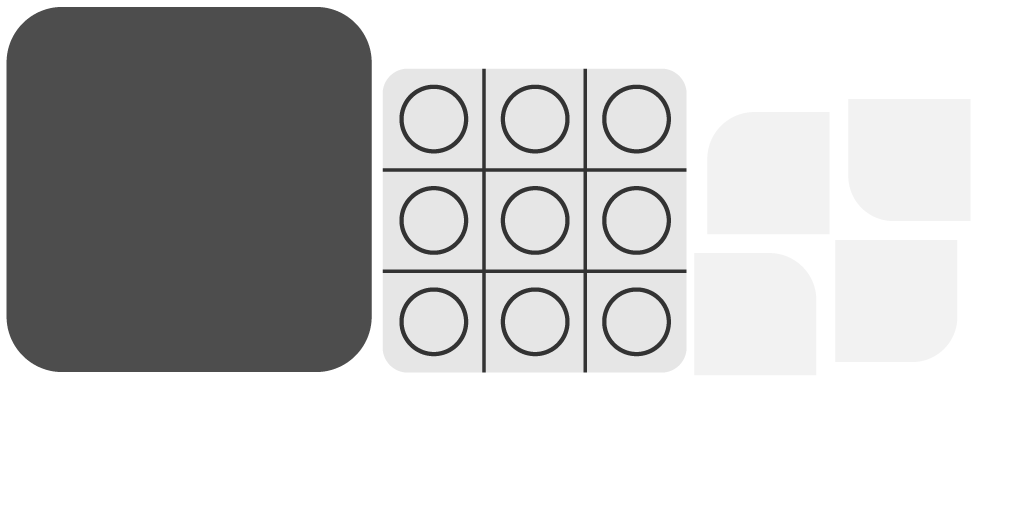
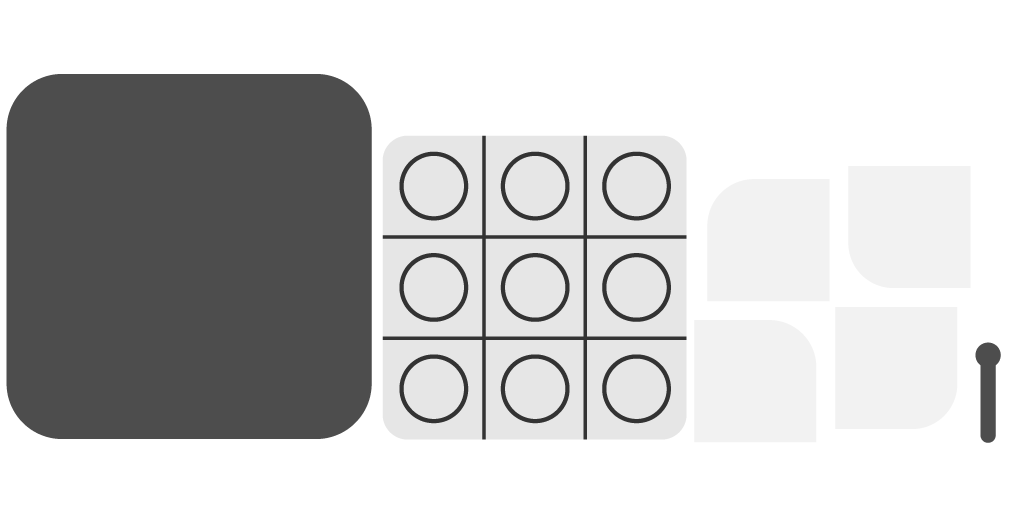
little improves

Changed region(s): [[0.0, 0.0, 0.6875, 0.875], [0.9375, 0.6562, 1.0, 0.875]]

diff --git a/core/src/com/rodion/turniket/basics/ImageEntity.java b/core/src/com/rodion/turniket/basics/ImageEntity.java
@@ -1,15 +1,13 @@
 package com.rodion.turniket.basics;
 
 import com.badlogic.gdx.assets.AssetManager;
-import com.badlogic.gdx.graphics.g2d.Batch;
 import com.badlogic.gdx.graphics.g2d.TextureAtlas;
 import com.badlogic.gdx.scenes.scene2d.ui.Image;
 import com.badlogic.gdx.scenes.scene2d.utils.TextureRegionDrawable;
-import com.rodion.turniket.basics.Constants;
+import com.rodion.turniket.utilities.ScreenScale;
 
 public class ImageEntity extends Image {
-    protected TextureRegionDrawable texture50, texture75, texture100, texture150, texture200,
-            texture300;
+    protected TextureRegionDrawable textures[];
     protected String assetPath;
     protected String assetName;
     protected AssetManager assetManager;
@@ -19,79 +17,23 @@ public class ImageEntity extends Image {
 
     public void prepareAssets() {
         setAssetAddress();
-        System.out.println(assetPath + "/0.5x/pack.atlas");
-        TextureAtlas atlas = assetManager.get(assetPath + "/0.5x/pack.atlas",
+        textures = new TextureRegionDrawable[FactorScale.getN()];
+        TextureAtlas atlas;
+        for (FactorScale factorScale: FactorScale.values()){
+            atlas = assetManager.get(assetPath + "/"+factorScale.value+"x/pack.atlas",
                 TextureAtlas.class);
-        texture50 = new TextureRegionDrawable(atlas.findRegion(assetName));
-        atlas = assetManager.get(assetPath + "/0.75x/pack.atlas", TextureAtlas.class);
-        texture75 = new TextureRegionDrawable(atlas.findRegion(assetName));
-        atlas = assetManager.get(assetPath + "/1x/pack.atlas", TextureAtlas.class);
-        texture100 = new TextureRegionDrawable(atlas.findRegion(assetName));
-        atlas = assetManager.get(assetPath + "/1.5x/pack.atlas", TextureAtlas.class);
-        texture150 = new TextureRegionDrawable(atlas.findRegion(assetName));
-        atlas = assetManager.get(assetPath + "/2x/pack.atlas", TextureAtlas.class);
-        texture200 = new TextureRegionDrawable(atlas.findRegion(assetName));
-        atlas = assetManager.get(assetPath + "/3x/pack.atlas", TextureAtlas.class);
-        texture300 = new TextureRegionDrawable(atlas.findRegion(assetName));
+            textures[factorScale.index ] = new TextureRegionDrawable(atlas.findRegion(assetName));
+        }
     }
 
     public void setAssetAddress() {
 
     }
 
-
     public void resize(int width, int height) {
+        setDrawable(textures[ScreenScale.getFac().index]);
         setSize(getImageWidth(),getImageHeight());
-        if (width <= Constants.WIDTH50x || height <= Constants.HEIGHT50x) {
-            resize50();
-            return;
-        }
-        if (width <= Constants.WIDTH75x || height <= Constants.HEIGHT75x) {
-            resize75();
-            return;
-        }
-        if (width <= Constants.WIDTH1x || height <= Constants.HEIGHT1x) {
-            resize100();
-            return;
-        }
-        if (width <= Constants.WIDTH150x || height <= Constants.HEIGHT150x) {
-            resize150();
-            return;
-        }
-        if (width <= Constants.WIDTH2x || height <= Constants.HEIGHT2x) {
-            resize200();
-            return;
-        }
-        if (width <= Constants.WIDTH3x || height <= Constants.HEIGHT3x) {
-            resize300();
-            return;
-        }
     }
-
-    public void resize50() {
-        setDrawable(texture50);
-    }
-
-    public void resize75() {
-        setDrawable(texture75);
-    }
-
-    public void resize100() {
-        setDrawable(texture100);
-    }
-
-    public void resize150() {
-        setDrawable(texture150);
-    }
-
-    public void resize200() {
-        setDrawable(texture200);
-    }
-
-    public void resize300() {
-        setDrawable(texture300);
-    }
-
 
     public AssetManager getAssetManager() {
         return assetManager;

diff --git a/core/src/com/rodion/turniket/screens/game/layouts/BoardLayout.java b/core/src/com/rodion/turniket/screens/game/layouts/BoardLayout.java
@@ -1,10 +1,15 @@
 package com.rodion.turniket.screens.game.layouts;
 
+import com.badlogic.gdx.graphics.Color;
+import com.badlogic.gdx.graphics.g2d.Batch;
 import com.badlogic.gdx.scenes.scene2d.ui.Stack;
 import com.badlogic.gdx.scenes.scene2d.ui.Table;
+import com.badlogic.gdx.utils.Align;
 import com.rodion.turniket.basics.BasicStage;
 import com.rodion.turniket.basics.ImageEntity;
 import com.rodion.turniket.basics.Layout;
+import com.rodion.turniket.kernel.Token;
+import com.rodion.turniket.screens.game.entities.TokenEntity;
 import com.rodion.turniket.utilities.AssetManagerMaster;
 
 public class BoardLayout extends Layout {
@@ -14,12 +19,15 @@ public class BoardLayout extends Layout {
     private ImageEntity ru;
     private ImageEntity rb;
     private ImageEntity burner;
+    private TokenEntity token;
+
     public BoardLayout(BasicStage basicStage) {
         super(basicStage);
         Stack stack = new Stack();
         Table table = new Table();
         Table table2 = new Table();
-        Table table3 = new Table();
+        token = new TokenEntity();
+        token.setColor(Color.MAGENTA);
 
         backboard = new ImageEntity() {
             @Override
@@ -30,7 +38,9 @@ public class BoardLayout extends Layout {
                 assetName = "back-board";
             }
         };
+
         backboard.prepareAssets();
+
         lu = new ImageEntity() {
             @Override
             public void setAssetAddress() {
@@ -41,6 +51,8 @@ public class BoardLayout extends Layout {
             }
         };
         lu.prepareAssets();
+        lu.setColor(Color.CYAN);
+
         lb = new ImageEntity() {
             @Override
             public void setAssetAddress() {
@@ -51,6 +63,8 @@ public class BoardLayout extends Layout {
             }
         };
         lb.prepareAssets();
+        lb.setColor(Color.GREEN);
+
         ru = new ImageEntity() {
             @Override
             public void setAssetAddress() {
@@ -61,6 +75,8 @@ public class BoardLayout extends Layout {
             }
         };
         ru.prepareAssets();
+        ru.setColor(Color.PURPLE);
+
         rb = new ImageEntity() {
             @Override
             public void setAssetAddress() {
@@ -71,6 +87,8 @@ public class BoardLayout extends Layout {
             }
         };
         rb.prepareAssets();
+        rb.setColor(Color.ORANGE);
+
         burner = new ImageEntity() {
             @Override
             public void setAssetAddress() {
@@ -89,18 +107,29 @@ public class BoardLayout extends Layout {
         stack.add(table);
         table2.add(burner);
         stack.add(table2);
-
+        token.setPosition(100, 100);
         add(stack);
+
+    }
+
+    @Override
+    public void draw(Batch batch, float parentAlpha) {
+        super.draw(batch, parentAlpha);
+//        token.setPosition(100,100);
+
+        token.draw(batch, parentAlpha);
     }
 
     @Override
     public void resize(int width, int height) {
         super.resize(width, height);
+        TokenEntity.boardldpos.setPosition((int) (0.5 * width), (int) (0.5 * height));
         backboard.resize(width, height);
         lu.resize(width, height);
         lb.resize(width, height);
         ru.resize(width, height);
         rb.resize(width, height);
         burner.resize(width, height);
+        token.resize(width, height);
     }
 }

diff --git a/core/src/com/rodion/turniket/utilities/ScreenScale.java b/core/src/com/rodion/turniket/utilities/ScreenScale.java
@@ -1,0 +1,32 @@
+package com.rodion.turniket.utilities;
+
+import com.rodion.turniket.basics.FactorScale;
+import com.rodion.turniket.basics.ScreenSize;
+
+public class ScreenScale {
+    private static FactorScale factorScale;
+    public static void resize(int width, int height){
+        float widthRadio = ((float)(width)) / ((float)(ScreenSize.WIDTH));
+        float heightRadio = ((float)(height)) / ((float)(ScreenSize.HEIGHT));
+        float ratio = Math.min(widthRadio, heightRadio);
+        if (ratio >= FactorScale.UltraHuge.scale) {
+            factorScale = FactorScale.UltraHuge;
+            return;
+        }
+        if (ratio <= FactorScale.UltraSmall.scale){
+            factorScale = FactorScale.UltraSmall;
+            return;
+        }
+
+        for (FactorScale enumFactorScale : FactorScale.values()){
+            if (enumFactorScale.getScale() > ratio){
+                factorScale = FactorScale.get(enumFactorScale.index - 1);
+                return;
+            }
+        }
+    }
+
+    public static FactorScale getFac() {
+        return factorScale;
+    }
+}

diff --git a/core/src/com/rodion/turniket/basics/FactorScale.java b/core/src/com/rodion/turniket/basics/FactorScale.java
@@ -1,0 +1,43 @@
+package com.rodion.turniket.basics;
+
+public enum FactorScale {
+    UltraSmall(0.5f,"0.5",0),Small(0.75f, "0.75",1),
+    Normal(1,"1",2), Big(1.5f,"1.5",3),
+    Huge(2,"2",4), UltraHuge(3,"3",5);
+    public final float scale;
+    public final String value;
+    public final int index;
+
+    FactorScale(float scale, String value, int index){
+        this.scale = scale;
+        this.value = value;
+        this.index = index;
+    }
+
+    public float getScale() {
+        return scale;
+    }
+
+    public static FactorScale get(int index) {
+        switch (index){
+            case 0:
+                return UltraSmall;
+            case 1:
+                return Small;
+            case 2:
+                return Normal;
+            case 3:
+                return Big;
+            case 4:
+                return Huge;
+            case 5:
+                return UltraHuge;
+        }
+        return null;
+    }
+
+    public static int getN() {
+        return UltraHuge.index + 1;
+    }
+
+}

diff --git a/core/src/com/rodion/turniket/screens/game/entities/TokenEntity.java b/core/src/com/rodion/turniket/screens/game/entities/TokenEntity.java
@@ -1,0 +1,31 @@
+package com.rodion.turniket.screens.game.entities;
+
+import com.rodion.turniket.basics.ImageEntity;
+import com.rodion.turniket.kernel.Node;
+import com.rodion.turniket.kernel.Token;
+import com.rodion.turniket.utilities.AssetManagerMaster;
+
+public class TokenEntity extends ImageEntity {
+    public static Node boardldpos = new Node();
+    public static float bordersize;
+    public static float pad;
+
+    private Token token;
+    public TokenEntity() {
+        prepareAssets();
+    }
+
+    @Override
+    public void setAssetAddress() {
+        super.setAssetAddress();
+        setAssetManager(AssetManagerMaster.game);
+        assetPath = "game";
+        assetName = "token";
+    }
+
+    @Override
+    public void resize(int width, int height) {
+        super.resize(width, height);
+        setPosition(boardldpos.getX(), boardldpos.getY());
+    }
+}

diff --git a/core/src/com/rodion/turniket/screens/game/GameScreen.java b/core/src/com/rodion/turniket/screens/game/GameScreen.java
@@ -5,6 +5,7 @@ import com.badlogic.gdx.graphics.GL20;
 import com.badlogic.gdx.utils.viewport.ScreenViewport;
 import com.rodion.turniket.MainGame;
 import com.rodion.turniket.basics.BasicScreen;
+import com.rodion.turniket.utilities.ScreenScale;
 
 public class GameScreen extends BasicScreen {
     private GameStage stage;
@@ -31,6 +32,7 @@ public class GameScreen extends BasicScreen {
     @Override
     public void resize(int width, int height) {
         super.resize(width, height);
+        ScreenScale.resize(width, height);
         stage.resize(width, height);
     }
 }

diff --git a/core/src/com/rodion/turniket/basics/ScreenSize.java b/core/src/com/rodion/turniket/basics/ScreenSize.java
@@ -1,0 +1,6 @@
+package com.rodion.turniket.basics;
+
+public class ScreenSize {
+    public static final int WIDTH = 520;
+    public static final int HEIGHT = 520; //1220
+}
